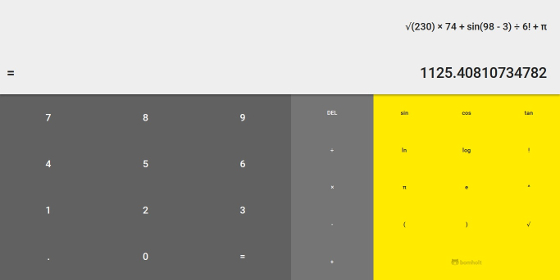
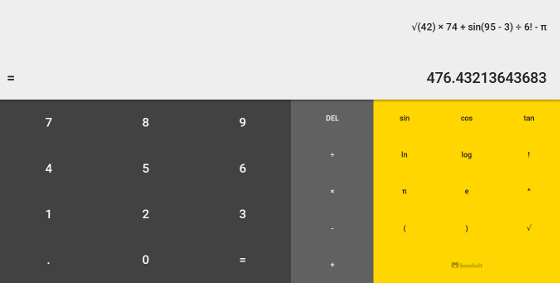
update JS Calculator

diff --git a/advanced_front_end_development_projects/js_calculator/style.css b/advanced_front_end_development_projects/js_calculator/style.css
@@ -64,7 +64,7 @@ span {
   color: #bdbdbd;
 }
 #keys {
-  background-color: #616161;
+  background-color: #424242;
   color: #fafafa;
   padding: 0;
   -webkit-user-select: none;

diff --git a/advanced_front_end_development_projects/js_calculator/style.sass b/advanced_front_end_development_projects/js_calculator/style.sass
@@ -56,7 +56,7 @@ span
         color: #bdbdbd
 
 #keys
-  background-color: #616161
+  background-color: #424242
   color: #fafafa
   padding: 0
   user-select: none
